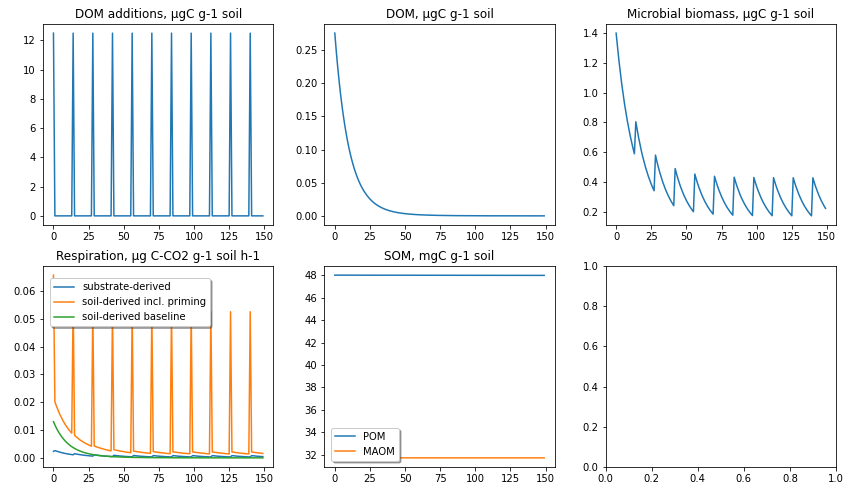
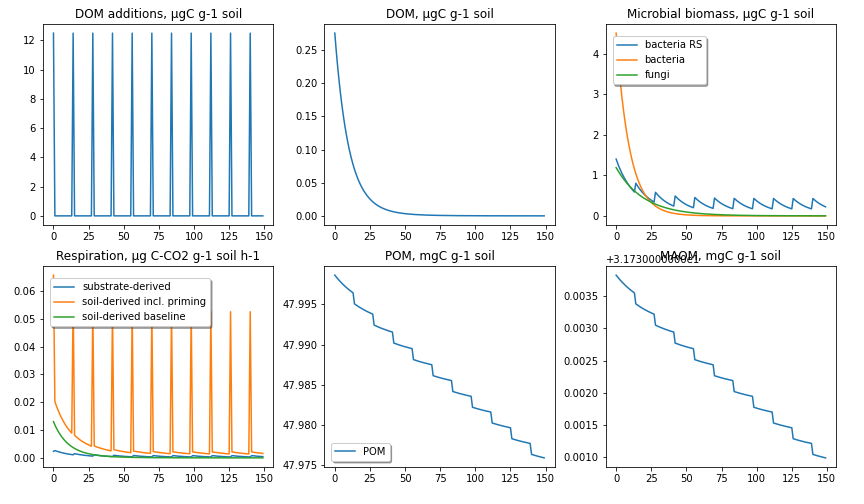
update of figure and dataframe outputs

diff --git a/potPrimingMAOM.py b/potPrimingMAOM.py
@@ -19,8 +19,8 @@ outDOMadded=[]
 outDOM=[]
 outDOM_CN=[]
 outBact_RS=[]
-outBact_Baseline=[]
-outFungi_Baseline=[]
+outBact=[]
+outFungi=[]
 outRespSubstrate=[]
 outRespSoil=[]
 outRespSoilBaseline=[]
@@ -184,8 +184,8 @@ for d in range(numDays):
     outPOM.append(POM)
     outDOM.append(DOM)
     outBact_RS.append(bact_RS)
-    outBact_Baseline.append(bact)
-    outFungi_Baseline.append(fungi)
+    outBact.append(bact)
+    outFungi.append(fungi)
     outRespSubstrate.append(resp)
     outRespSoilBaseline.append(baselineResp)
     outRespSoil.append(respSoil)
@@ -205,8 +205,8 @@ for d in range(numDays):
 #change units to easily understandable for the plot
 outDOMadded2 = np.divide(outDOMadded,0.8) #change units from gC/m3 µgC/g soil
 outBact_RS2=np.divide(outBact_RS,0.8) #change units from gC/m3 µgC/g soil
-outBact_Baseline=np.divide(outBact_Baseline,0.8)
-outFungi_Baseline=np.divide(outBact_Baseline,0.8)
+outBact2=np.divide(outBact,0.8)
+outFungi2=np.divide(outFungi,0.8)
 outRespSubstrate2 =np.divide(outRespSubstrate, 0.8*24) #change units from gC/m3/day to µg CO2-C/g soil/h
 outRespSoilBaseline2=np.divide(outRespSoilBaseline, 0.8*24)
 outRespSoil2=np.divide(outRespSoil,0.8*24)
@@ -218,7 +218,8 @@ outMAOM2 = np.divide(outMAOM,0.8*1000) #change units from gC/m3 mgC/g soil
 df = pd.DataFrame({"DOMaddition" : outDOMadded2,
                    "DOM" : outDOM2,
                    "bact_RS" : outBact_RS2,
-                   "bact_Baseline" : outBact_Baseline,
+                   "bact" : outBact2,
+                   "fungi" : outFungi2,
                    "resp_substrate" : outRespSubstrate2,
                    "resp_soil_baseline" : outRespSoilBaseline2,
                    "resp_soil" : outRespSoil2,
@@ -250,7 +251,7 @@ df.to_csv(".\output\data\Output.csv", index=False)
 
 
 #plot in adjusted units matching the data
-def Dailyplot2(outDOMadded2, outDOM2, outBact_RS2, outRespSubstrate2, outRespSoil2, outRespSoilBaseline2, outPOM2, outMAOM2): #plot in original KEYLINK units
+def Dailyplot2(outDOMadded2, outDOM2, outBact_RS2, outBact2, outFungi2, outRespSubstrate2, outRespSoil2, outRespSoilBaseline2, outPOM2, outMAOM2): #plot in original KEYLINK units
     # df2 = pd.DataFrame(df)
     # x = []
     # y = []
@@ -266,22 +267,26 @@ def Dailyplot2(outDOMadded2, outDOM2, outBact_RS2, outRespSubstrate2, outRespSoi
     ps[1].set_title("DOM, µgC g-1 soil") 
     ps[2].set_title("Microbial biomass, µgC g-1 soil")
     ps[3].set_title("Respiration, µg C-CO2 g-1 soil h-1")
-    # ps[4].set_title("POM, mgC g-1 soil")
-    ps[4].set_title("SOM, mgC g-1 soil")
+    ps[4].set_title("POM, mgC g-1 soil")
+    # ps[4].set_title("SOM, mgC g-1 soil")
+    ps[5].set_title("MAOM, mgC g-1 soil")
     
     p1.plot(time_d, outDOMadded2)
     p2.plot(time_d, outDOM2)
-    p3.plot(time_d, outBact_RS2, label="bacterial biomass")
+    p3.plot(time_d, outBact_RS2, label="bacteria RS")
+    p3.plot(time_d, outBact2, label="bacteria")
+    p3.plot(time_d, outFungi2, label="fungi")
+    ps[2].legend(loc=(0.03, 0.7), shadow=True) #loc='upper left',
     p4.plot(time_d, outRespSubstrate2, label="substrate-derived")
     p4.plot(time_d, outRespSoil2, label="soil-derived incl. priming")
     p4.plot(time_d, outRespSoilBaseline2, label="soil-derived baseline")
     ps[3].legend(loc=(0.03, 0.7), shadow=True) #loc='upper left',
     p5.plot(time_d, outPOM2, label="POM")
-    p5.plot(time_d, outMAOM2, label="MAOM")
+    # p5.plot(time_d, outMAOM2, label="MAOM")
     ps[4].legend(loc=(0.03, 0.03), shadow=True) #loc='upper left',
-    # p6.plot(time_d, outMAOM2)
+    p6.plot(time_d, outMAOM2, label="MAOM")
     
 
 # Dailyplot(outDOMadded, outDOM, outBact_RS, outRespSubstrate, outRespSoil, outRespSoilBaseline, outPOM, outMAOM)
-Dailyplot2(outDOMadded2, outDOM2, outBact_RS2, outRespSubstrate2, outRespSoil2, outRespSoilBaseline2, outPOM2, outMAOM2)
+Dailyplot2(outDOMadded2, outDOM2, outBact_RS2, outBact2, outFungi2, outRespSubstrate2, outRespSoil2, outRespSoilBaseline2, outPOM2, outMAOM2)
 plt.savefig("output/figures/Dailyplot2.png")
